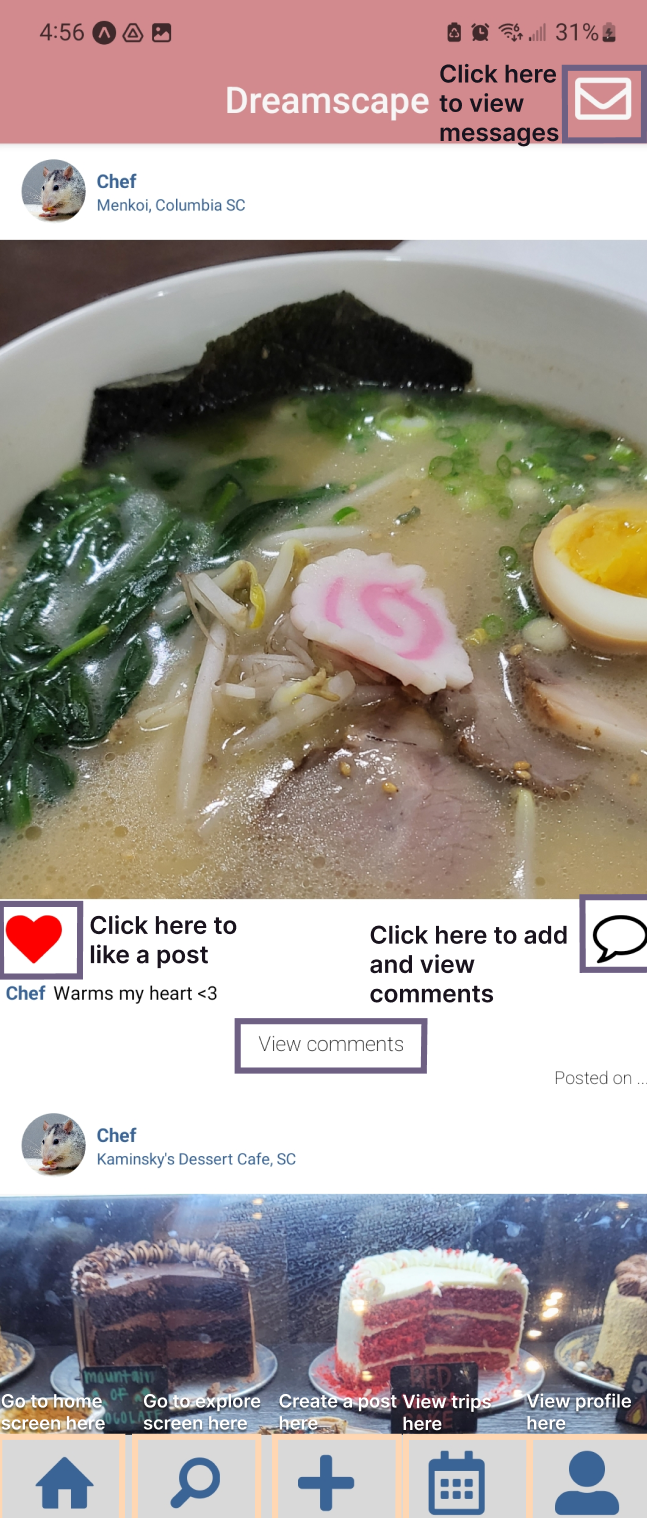
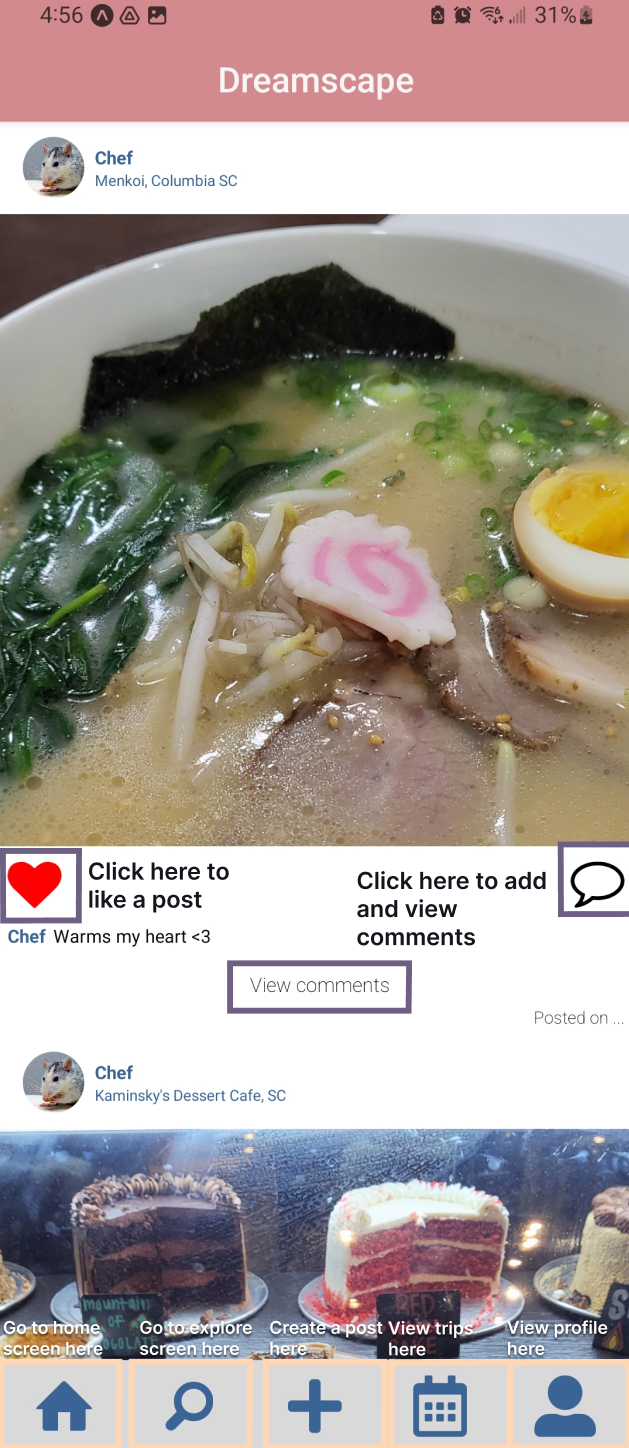
edited website

diff --git a/App.js b/App.js
@@ -81,6 +81,7 @@ export default function App({navigation}) {
                 </View>
               )
             })} name="Trips" component={Trips} />
+
           <Stack.Screen 
             options={({ navigation }) => ({
               title: 'Dreamscape',
@@ -93,14 +94,14 @@ export default function App({navigation}) {
                 color: '#F6F6F6',
                 fontSize: 25
               },
-              headerRight: () => (
-                <View>
-                  <TouchableOpacity 
-                    onPress={() =>  navigation.navigate('Messages')}>
-                    <FontAwesome5 name='envelope' size={35} color='#F6F6F6'/>
-                  </TouchableOpacity>
-                </View>
-              )
+              // headerRight: () => (
+              //   <View>
+              //     <TouchableOpacity 
+              //       onPress={() =>  navigation.navigate('Messages')}>
+              //       <FontAwesome5 name='envelope' size={35} color='#F6F6F6'/>
+              //     </TouchableOpacity>
+              //   </View>
+              // )
             })} name="Home" component={HomeScreen} />
             
             <Stack.Screen 

diff --git a/screens/LoginScreen.js b/screens/LoginScreen.js
@@ -80,12 +80,12 @@ const LoginScreen = ({navigation}) => {
                             </TouchableOpacity>
                         </View>
                                 
-                        <View style={styles.checkboxContainer}>
+                        {/* <View style={styles.checkboxContainer}>
                             <TouchableOpacity onPress={handleCheck}>
                                 <MaterialCommunityIcons name={isChecked ? 'checkbox-marked' : 'checkbox-blank-outline'} size={35} color={isChecked ? '#F8C98A' : '#F8C98A'}/>
                             </TouchableOpacity>
                             <Text style={styles.rememberMe}>Remember me</Text>
-                        </View>
+                        </View> */}
 
                         <View style={styles.container}>
                             <View style={styles.loginButtonContainer}>

diff --git a/index.html b/index.html
@@ -136,7 +136,7 @@
                     <br>
 
                     <figcaption>After the app loads, you will see the login screen. Here, you can sign into an account or create one if you don't have one already.</figcaption>
-                    <img src="website-images/login.png" width="235" height="550">
+                    <img src="website-images/login.png" width="300" height="550">
                     
                     <br>
                     <br>
